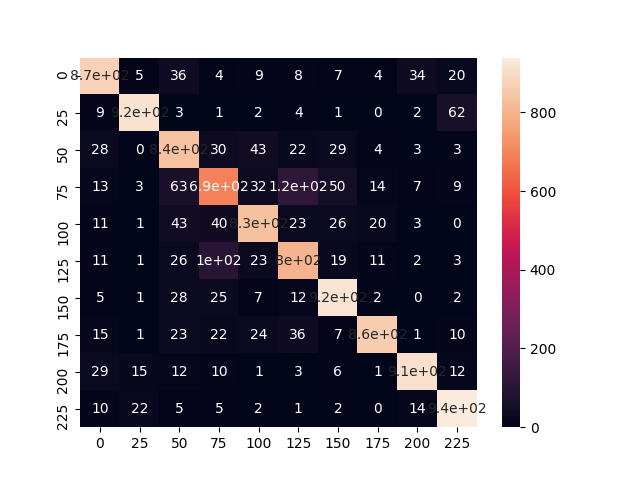
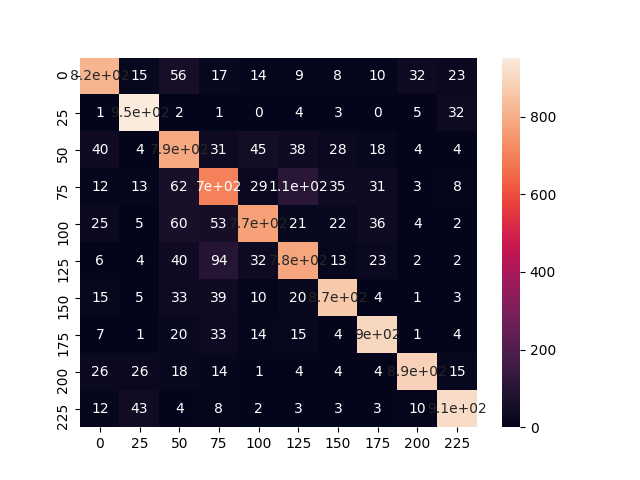
cifar87

diff --git a/functions/tsslbp.py b/functions/tsslbp.py
@@ -67,7 +67,7 @@ class TSSLBP(torch.autograd.Function):
         mean = torch.mean(torch.abs(grad))
         last_norm = glv.grad_norm_dict[glv.last_layer_name]
         #grad = grad/mean * last_norm * torch.log(mean/last_norm + 1.1)
-        grad = grad * torch.log(last_norm/mean + 1.05) * 2
+        grad = grad * torch.log(last_norm/mean + 1.02) * 1.2
         nb.update_norm(grad, name)
         """
 

diff --git a/main.py b/main.py
@@ -196,7 +196,7 @@ if __name__ == '__main__':
 
     # Check whether a GPU is available
     if torch.cuda.is_available():
-        device = 0#torch.device("cuda")
+        device = 1#torch.device("cuda")
         cuda.init()
         c_device = aboutCudaDevices()
         print(c_device.info())
